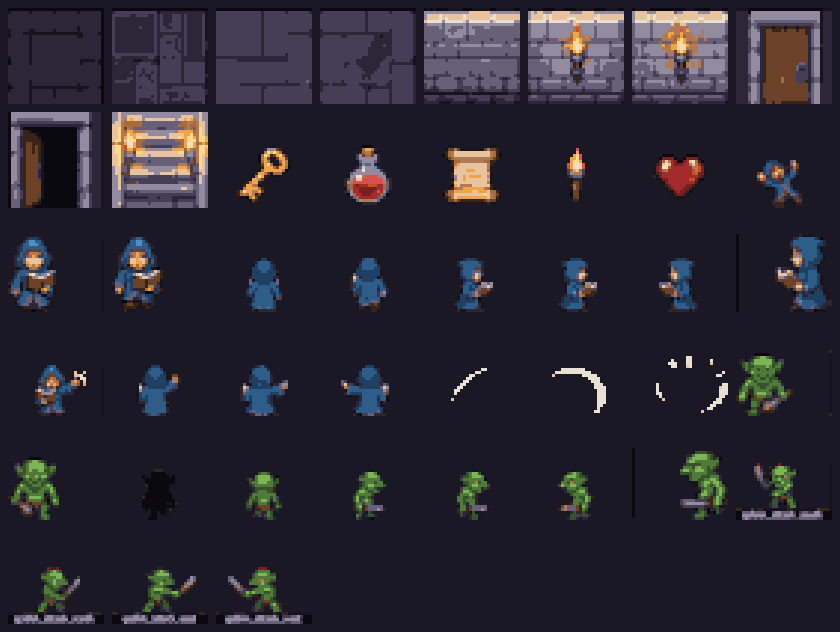
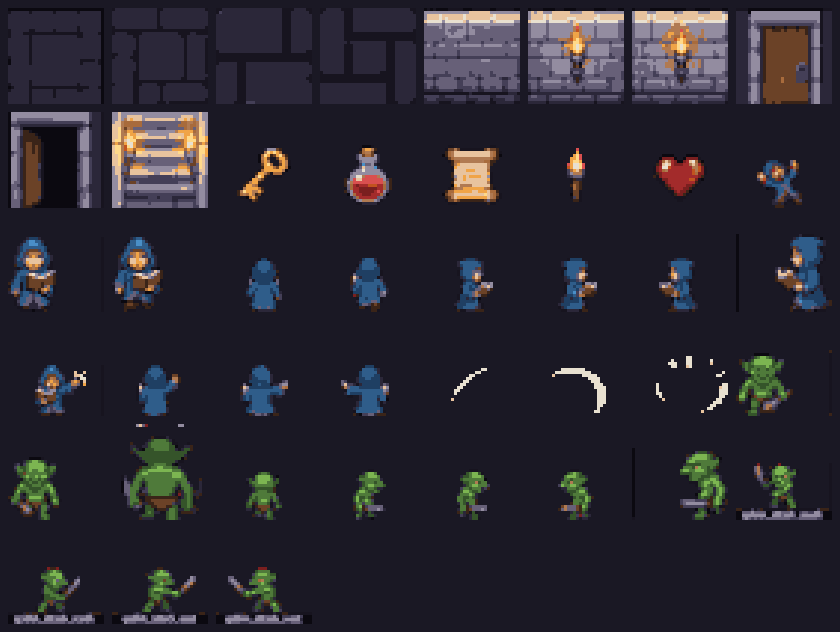
Art complete: splice round-3 fixes into round-2 set; all 43 pass
Round 3 applied both artwork corrections but none of the four delivery
corrections. It came back as a JPEG again, at 1408x768 again, captions
again -- and this time as a 10-column grid rather than 8, padded with
duplicate cells (tile_floor_cracked, item_potion, ui_heart, fx_slash_0
each appear twice) and with some captions no longer matching the image
above them.

Rather than reverse-engineer that layout, only the four sprites that
needed fixing were taken from it and spliced into the round-2 set, whose
8-column layout was correct: tile_floor_b, tile_floor_c,
tile_floor_cracked and goblin_walk_north_0.

The two replacement floors still missed the contrast gate at 2.45:1 and
2.47:1 against a 2.5:1 requirement, while tile_floor_a passed at 2.64:1
looking identical -- the tiles are all 85-92% STONE_D and Gemini used
less SHADOW than the recipe in ASSETS.md 3B. Fixed by growing the
existing shadow joints until the shadow fraction matched tile_floor_b,
which already passed: this thickens the slab joints rather than adding
dither noise, and leaves the tiles distinct from each other.

  tile_floor_c        lum 39.8 -> 37.4, shadow 20%, contrast 2.53:1
  tile_floor_cracked  lum 39.2 -> 35.9, shadow 27%, contrast 2.58:1

The threshold was deliberately not lowered to make the art pass.

All 43 sprites now pass both the format and readability gates, and
assets/manifest.json is generated. The engine is unblocked.

Claude-Session: https://claude.ai/code/session_01VmBaWgd1juiFzJBdd12oHC

Changed region(s): [[0.1238, 0.0, 0.4952, 0.1804], [0.1238, 0.6915, 0.2476, 0.8418]]

diff --git a/README.md b/README.md
@@ -17,8 +17,8 @@ Single HTML page. No frameworks, no build step, no network requests at runtime.
 |---|---|
 | Game design | ✅ Complete — see [`DESIGN.md`](DESIGN.md) |
 | Art specification | ✅ Complete — see [`ASSETS.md`](ASSETS.md) |
-| Art production | 🔶 **Round 2 received and extracted at 32×32. Corrections requested — see [`ART-BRIEF.md`](ART-BRIEF.md) §0.** |
-| Engine implementation | ⬜ Next up |
+| Art production | ✅ **Complete — all 43 sprites pass `tools/validate-assets.mjs`** |
+| Engine implementation | ⬜ Not started — unblocked, art is in `assets/sprites/` |
 
 ---
 
